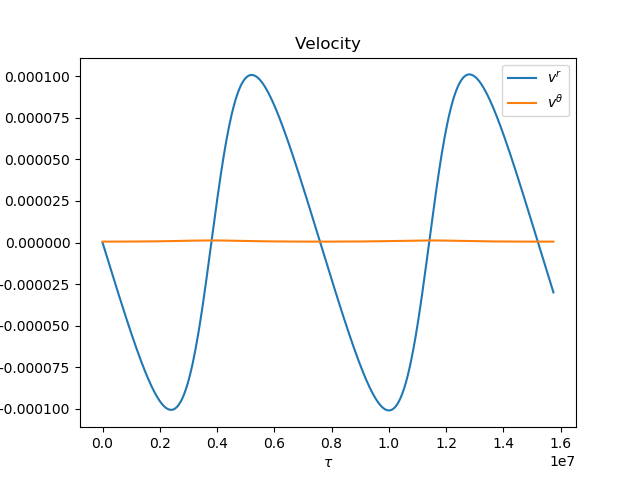
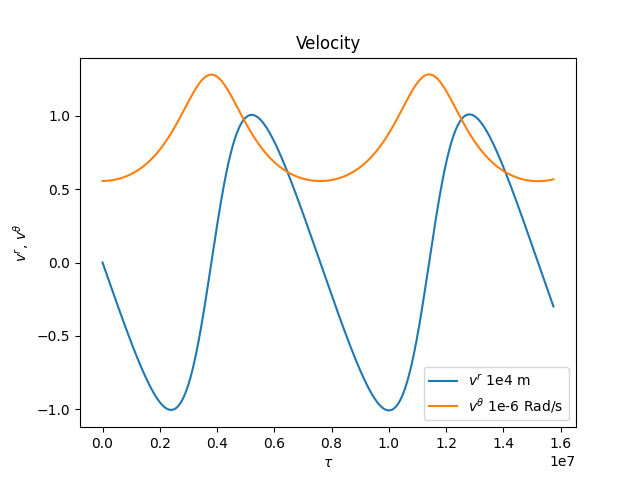
Updated plotting code and figures.

diff --git a/SchwarzschildMetric.py b/SchwarzschildMetric.py
@@ -20,7 +20,7 @@ year = 365 * day
 
 
 def main():
-    integrate_geodesic_forward(5 * minute, 0.5 * year)
+    integrate_geodesic_forward(dtau=5 * minute, tau_final=0.5 * year)
     # heatmap_of_ricci_scalar()
 
 
@@ -51,7 +51,7 @@ def heatmap_of_ricci_scalar():
     plt.show()
 
 
-def integrate_geodesic_forward(dtau, tau_final, num_iters_between_plot=1000):
+def integrate_geodesic_forward(dtau, tau_final, num_iters_between_plot=100):
     x0 = torch.zeros(3, requires_grad=False)
     v0 = torch.zeros(3, requires_grad=False)
 
@@ -72,7 +72,7 @@ def integrate_geodesic_forward(dtau, tau_final, num_iters_between_plot=1000):
     print(
         "\n".join([
             f"Mercury Orbit GR Simulation\n",
-            f"Aphelion start: {r_aphelion / 1e10}e10 km"
+            f"Aphelion start: {r_aphelion / 1e10:.3f}1e10 m"
         ])
     )
 
@@ -80,14 +80,16 @@ def integrate_geodesic_forward(dtau, tau_final, num_iters_between_plot=1000):
 
     tau_range = torch.arange(0.0, tau_final, dtau, dtype=f64)
     X = tau_range.detach().numpy()
-    position_plotter = Plotter("Position", X[::num_iters_between_plot], r"$\tau$")
-    velocity_plotter = Plotter("Velocity", X[::num_iters_between_plot], r"$\tau$")
+    position_plotter = Plotter("Position", X[::num_iters_between_plot], X_name=r"$\tau$", Y_name=r"$r$, $\theta$")
+    velocity_plotter = Plotter("Velocity", X[::num_iters_between_plot], X_name=r"$\tau$", Y_name=r"$v^{r}$, $v^{\theta}$")
 
-    vs, ts, rs, thetas = [], [], [], []
+    ts, rs, thetas = [], [], []
+    drdtaus, dthetadtaus = [], []
 
     x = x0.clone()
     v = v0.clone()
 
+    # TODO: Use https://github.com/rtqichen/torchdiffeq for integrating forward
     start = time.time()
     for i, tau in enumerate(tau_range):
         dvdtau = dvec_dtau_fn(x.detach().requires_grad_(True), v.detach())
@@ -100,34 +102,37 @@ def integrate_geodesic_forward(dtau, tau_final, num_iters_between_plot=1000):
 
         if i % num_iters_between_plot == 0:
             # print("\r{tau / tau_final}")
-            vs.append(v)
+            drdtaus.append(v[1]/1e4)
+            dthetadtaus.append(v[2]*1e6)
             ts.append(t)
             rs.append(r)
             thetas.append(theta)
 
             # position_plotter.record(r"$t$", t)
-            position_plotter.record(r"$r$", r)
-            position_plotter.record(r"$\theta$", theta)
+            position_plotter.record(r"$r$ 1e10 m", r)
+            position_plotter.record(r"$\theta$ Rad", theta)
 
             # velocity_plotter.record(r"$v^{t}$", v[0].detach().numpy())
-            velocity_plotter.record(r"$v^{r}$", v[1].detach().numpy() / 1e8)
-            velocity_plotter.record(r"$v^{\theta}$", v[2].detach().numpy())
+            velocity_plotter.record(r"$v^{r}$ 1e4 m", v[1].detach().numpy() / 1e4)
+            velocity_plotter.record(r"$v^{\theta}$ 1e-6 Rad/s", v[2].detach().numpy() * 1e6)
 
     dur = time.time() - start
     print(f"Simulation Took {dur:.2f} secconds.")
+    print("\n".join([
+        f"Simulation results: "
+        f"- Perihelion: {min(rs):.3f}e10 m",
+        f"- Max radial velocity reached: {max(drdtaus):.3f} 1e4 m/s",
+        f"- Min radial velocity reached: {min(drdtaus):.3f} 1e4 m/s",
+        f"- Max angular velocity reached: {max(dthetadtaus):.3f} 1e-6 rad/s",
+        f"- Min angular velocity reached: {min(dthetadtaus):.3f} 1e-6 rad/s"
+    ]))
 
     position_plotter.plot()
     velocity_plotter.plot()
 
     plt.figure()
     plt.polar(thetas, rs)
-    print("\n".join([
-        f"Simulation results: "
-        f"- Perihelion: {min(rs)}e10 km",
-        f"- Max velocity reached: {max(vs)} km/s",
-        f"- Min velocity reached: {min(vs)} km/s"
-    ]))
-
+    plt.xlabel("Radial units 1e10 m")
     plt.show()
 
 

diff --git a/DGR/DGR.py b/DGR/DGR.py
@@ -285,10 +285,11 @@ def grad_fn(f):
 
 
 class Plotter:
-    def __init__(self, title, X, X_name):
+    def __init__(self, title, X, X_name="", Y_name=""):
         self.title = title
         self.X = X
         self.X_name = X_name
+        self.Y_name = Y_name
         self.values_to_plot = {}
 
     def record(self, name, value):
@@ -305,6 +306,7 @@ class Plotter:
         # plt.axvline(x=0, color='k')
         # plt.axhline(y=0, color='k')
         plt.xlabel(self.X_name)
+        plt.ylabel(self.Y_name)
         plt.title(self.title)
         plt.show()
 
